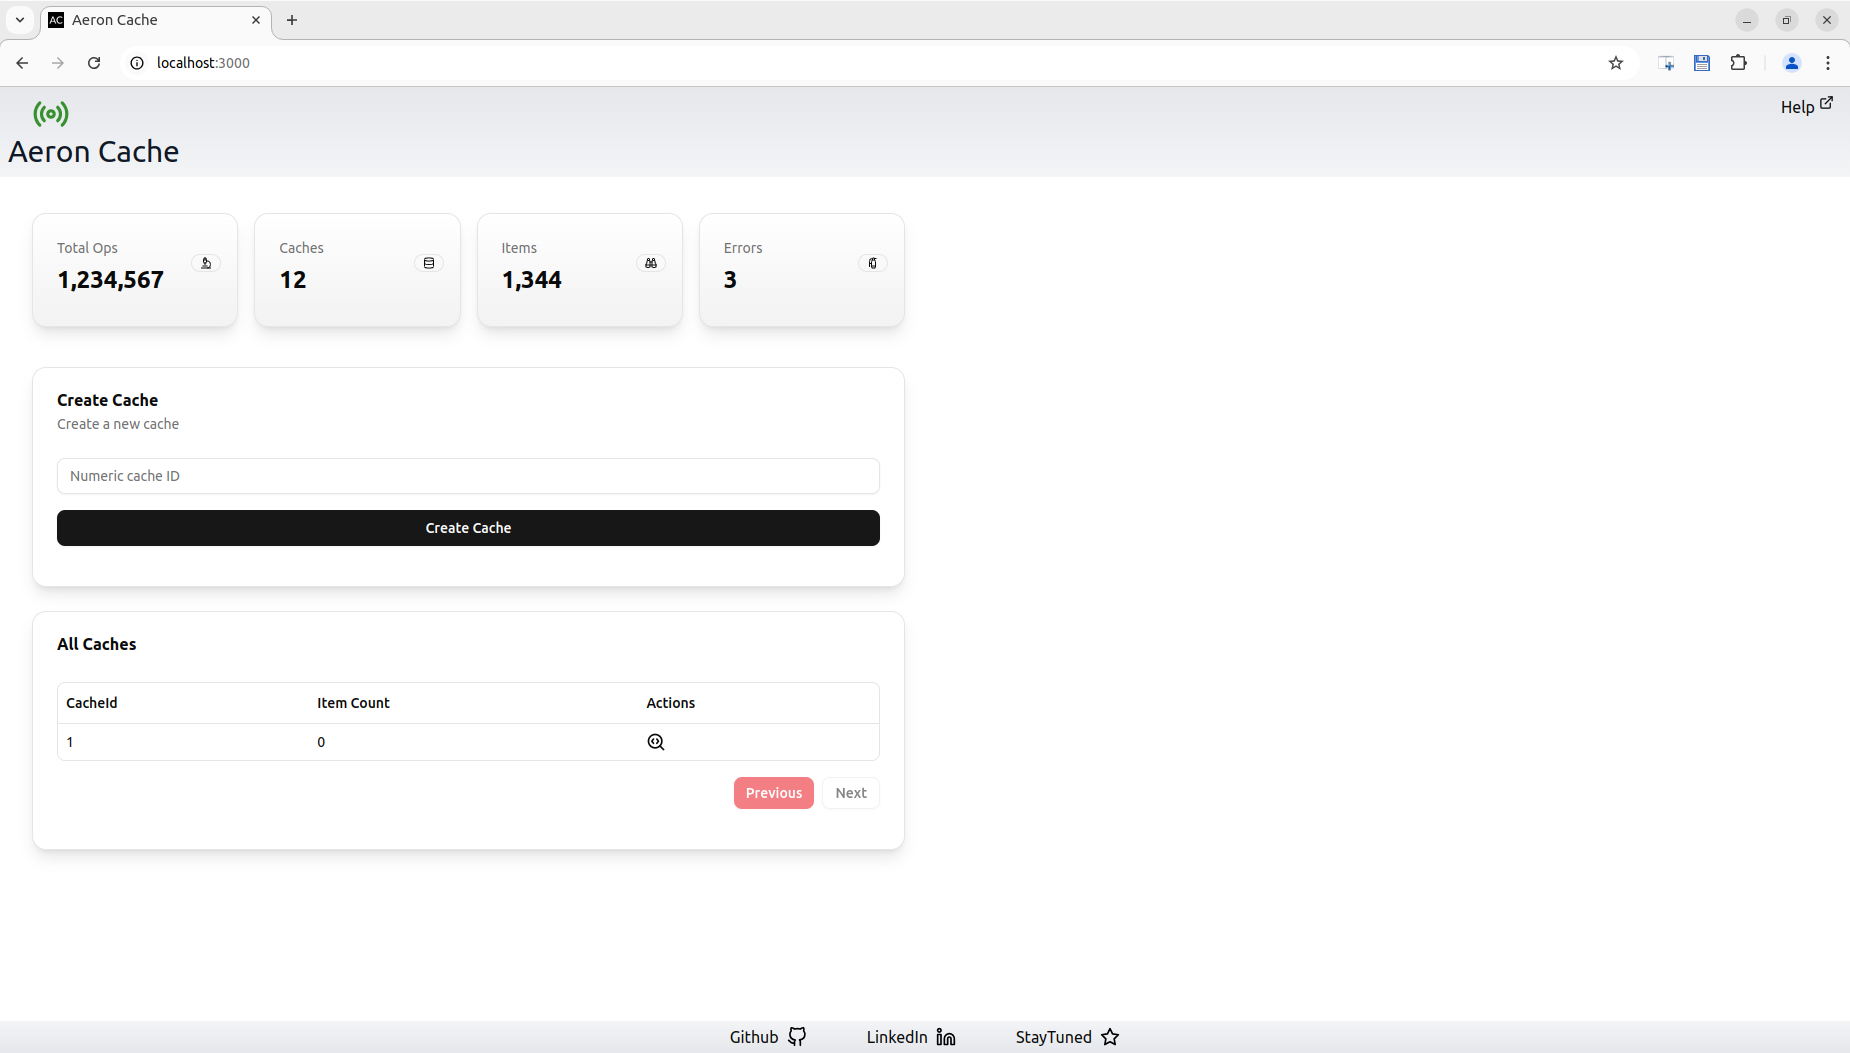
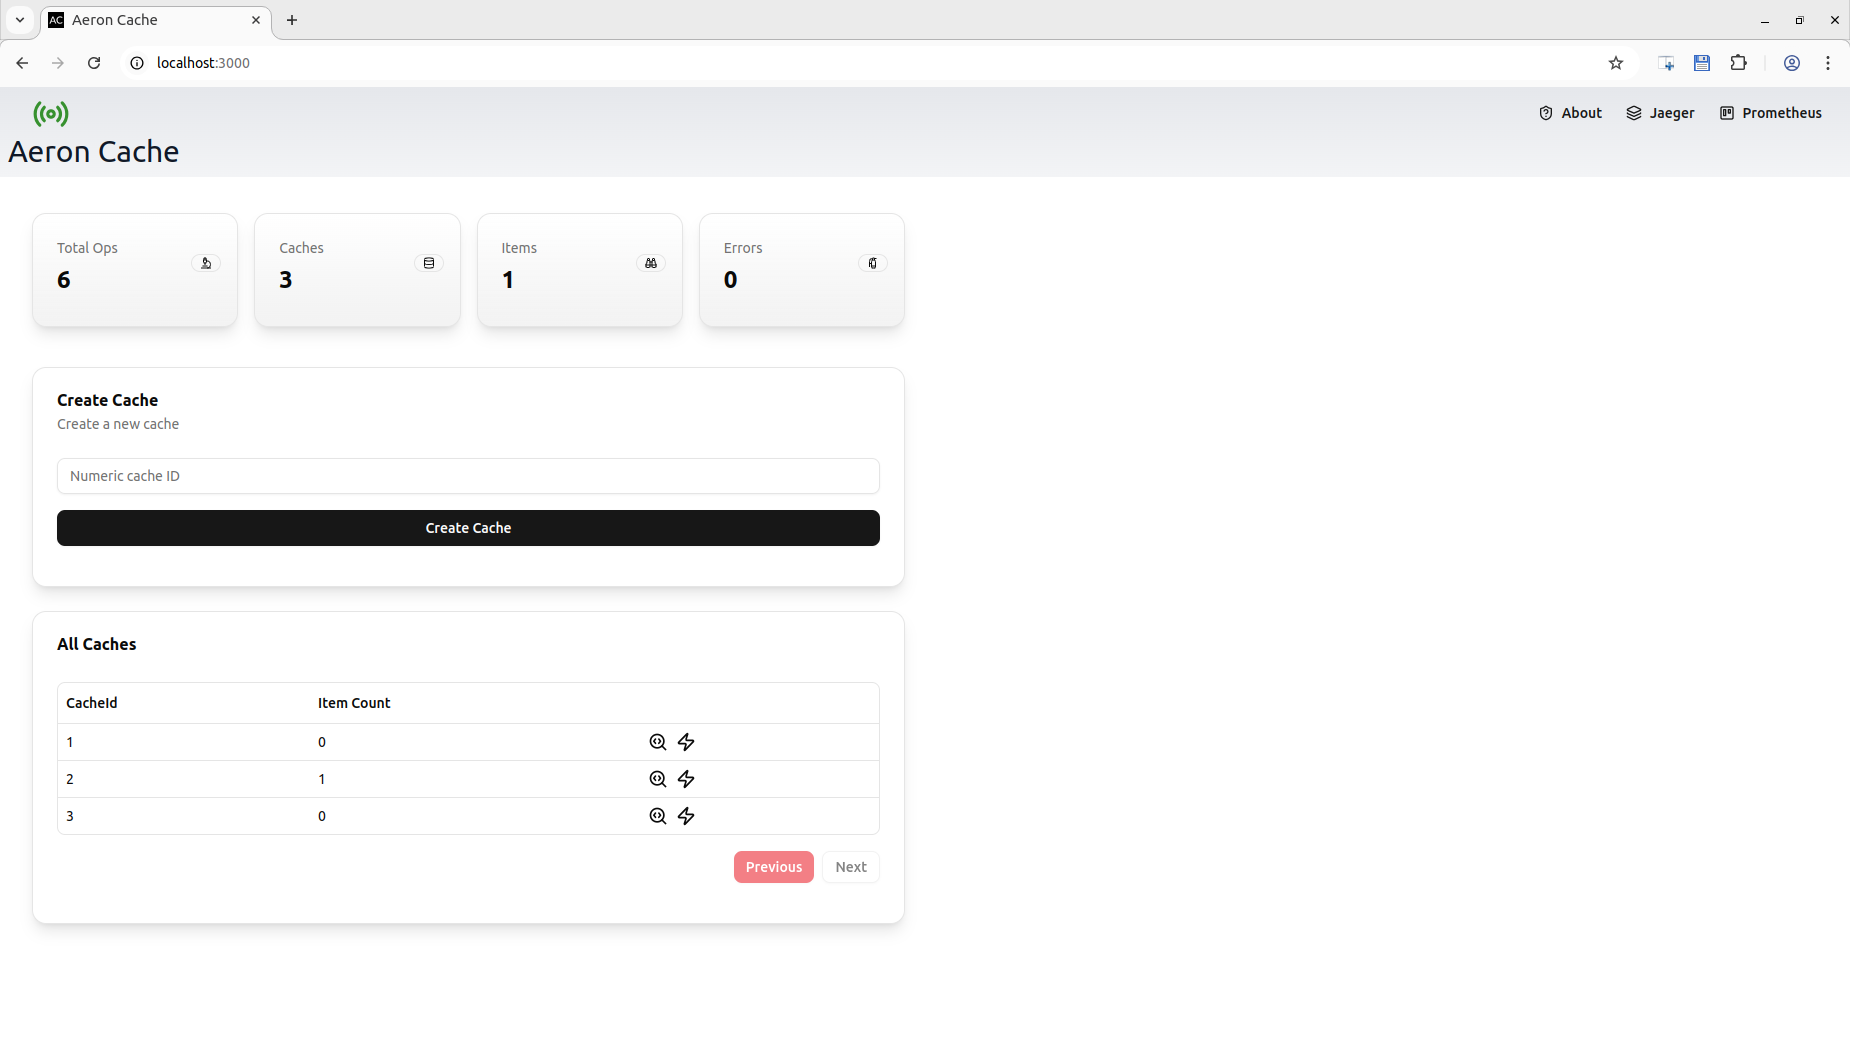
Update diagrams and readme

diff --git a/README.md b/README.md
@@ -14,7 +14,27 @@ docker compose build
 docker compose up
 ```
 
+* Frontend on localhost:3000
+* HTTP API on localhost:7070
+* Websocket on localhost:7071
+* Jaeger tracing on localhost:16686
+* Prometheus on localhost:9090
 
+### Subscribe to Multiple Caches over Websocket
+
+To subscribe to cache updates on caches with IDs 808 and 333:
+
+```bash
+uwsc http://localhost:7071/api/ws/v1/caches/808,333
+```
+
+### UI
+
+![img.png](cache-ui/ui-main-page.png)
+
+![img.png](cache-ui/ui-cache-view.png)
+
+![img.png](cache-ui/ui-cache-ws.png)
 
 ### Structure
 

diff --git a/cache-ui/README.md b/cache-ui/README.md
@@ -7,3 +7,5 @@ Implementations of the Aeron Cache UI. Currently supports:
 ![img.png](ui-main-page.png)
 
 ![img.png](ui-cache-view.png)
+
+![img.png](ui-cache-ws.png)
